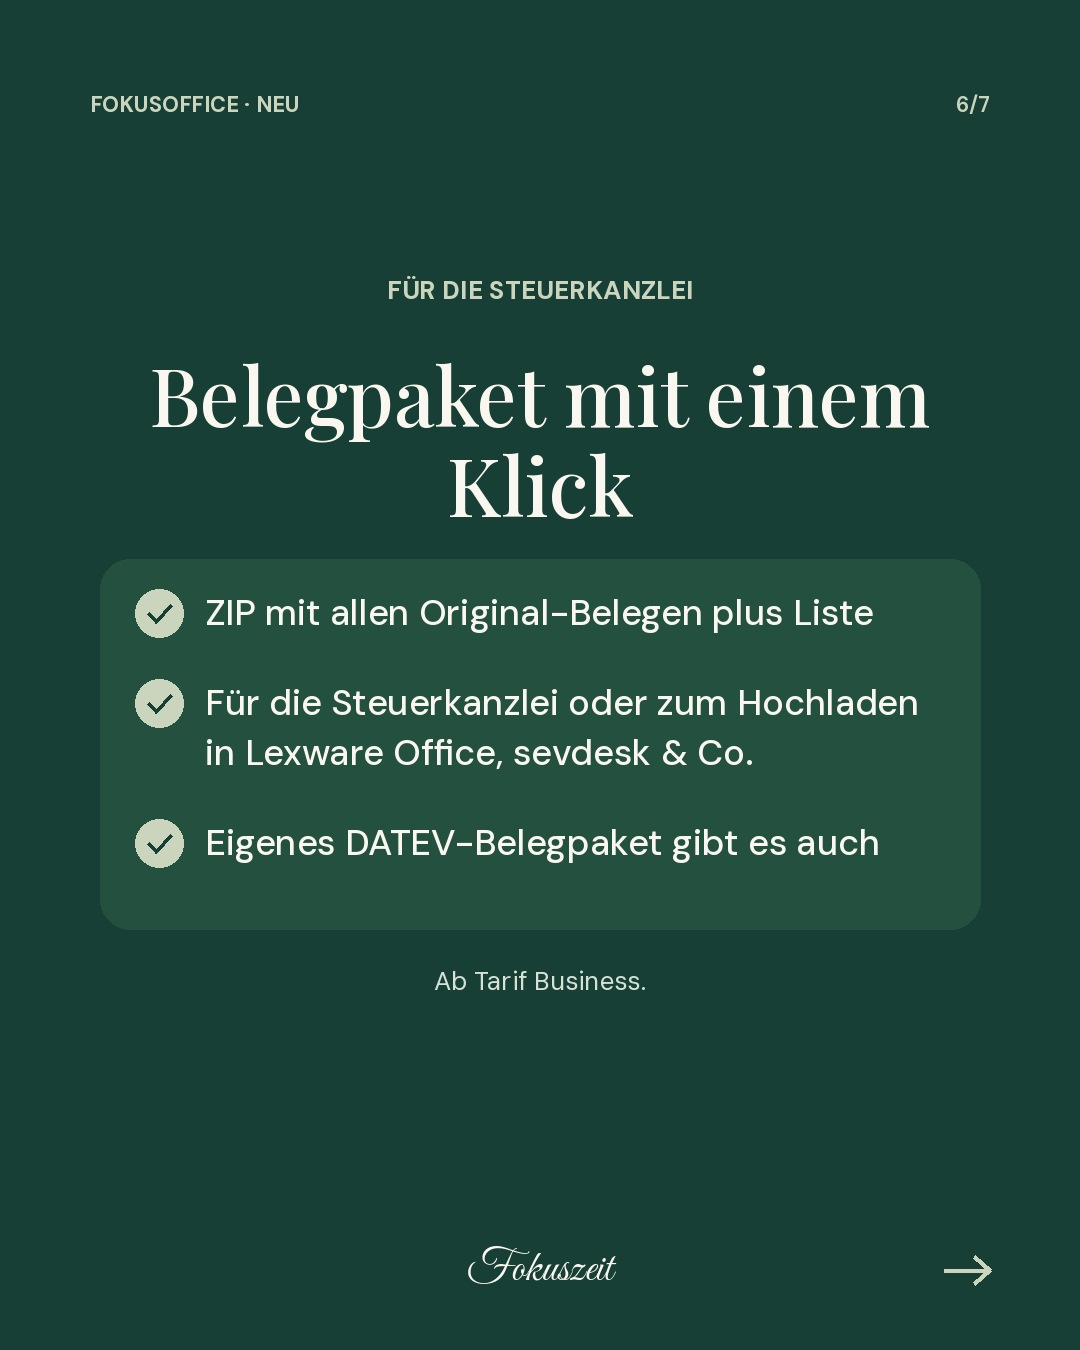
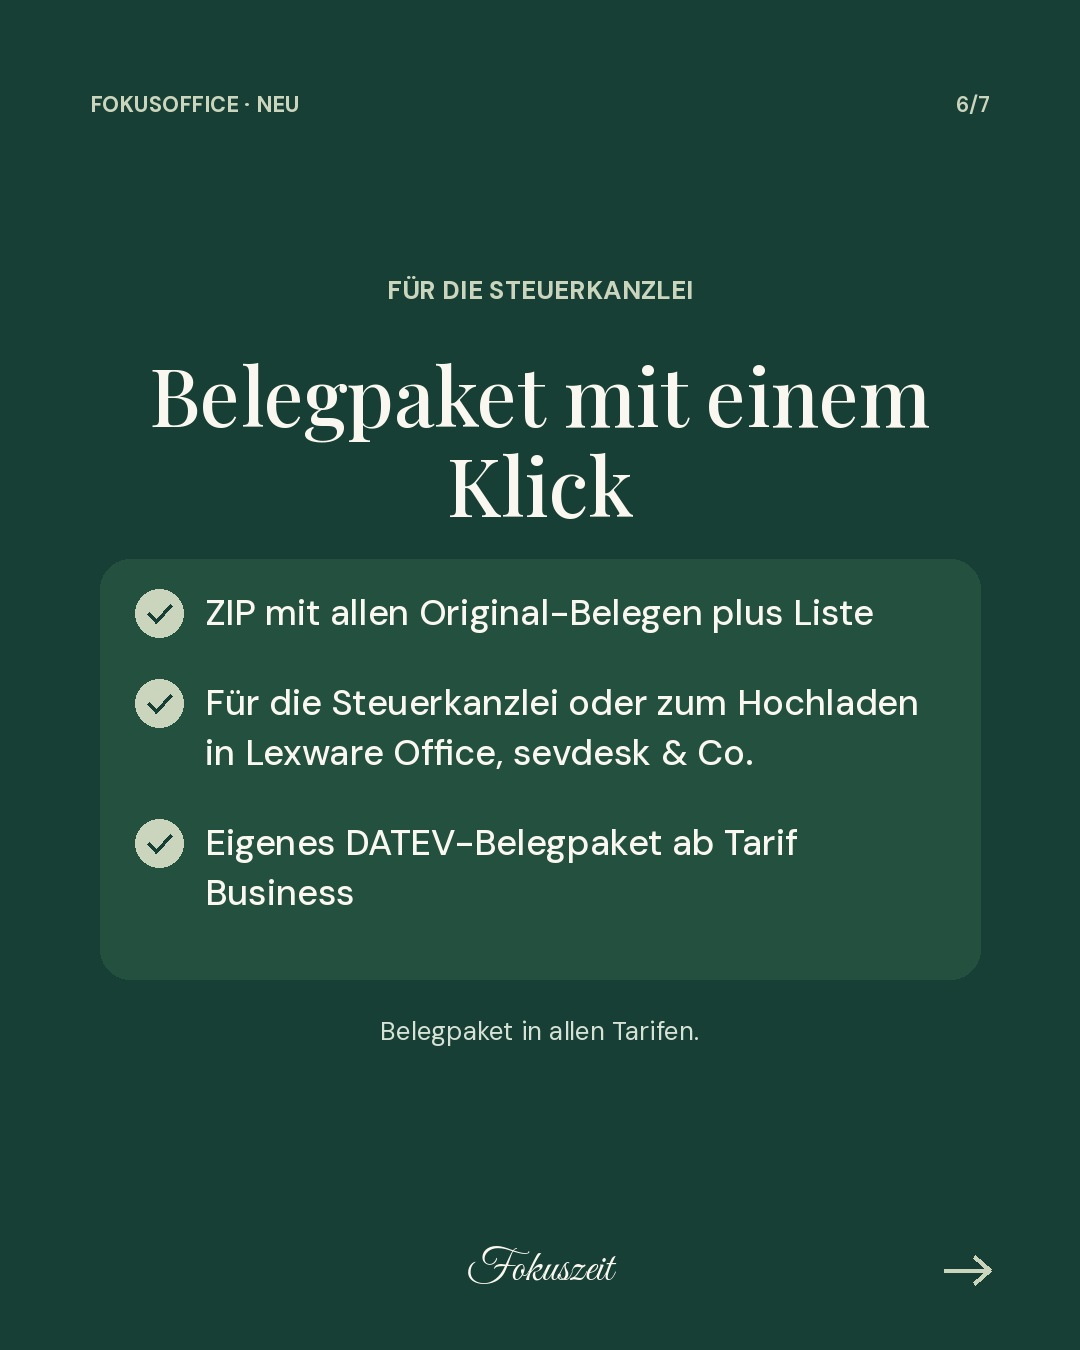
Belegpaket: in allen Tarifen (Korrektur), DATEV-Belegpaket ab Business
Claude-Session: https://claude.ai/code/session_01NA1kJx4sZCFfTM8CresH3w

Changed region(s): [[0.3361, 0.7156, 0.6417, 0.7778], [0.6111, 0.5911, 0.7944, 0.6533], [0.1833, 0.6533, 0.3361, 0.6844]]

diff --git a/wissen/fokusoffice_neuerungen.md b/wissen/fokusoffice_neuerungen.md
@@ -179,7 +179,7 @@ Die öffentliche Demo auf der Website wurde entfernt → nicht mehr erwähnen od
 - Preise, Tarife, Testphase (14 Tage, ohne Zahlungsdaten), Anmeldeformular unverändert. In der Testphase ist alles freigeschaltet.
 - Benutzerhandbuch mit Bildern, öffentlich ohne Anmeldung: https://office.fokuszeit-business.de/handbuch.php (16 Kapitel, Handy-Bilder, erfundene Demo-Firma). In der App über das Fragezeichen. Auf fokusoffice.html verlinkt.
 - Zwei-Faktor-Anmeldung, alle Tarife, freiwillig: oben „Sicherheit“ → Zwei-Faktor-Anmeldung „Einrichten“. Mit Authenticator-App (iPhone „Passwörter“, Google oder Microsoft Authenticator) und 10 Notfallcodes. Passkey gab es schon.
-- Belegpaket (ZIP + Liste), ab Business: Belege → „Erfasste Ausgaben“ → „Belegpaket (ZIP + Liste)“. Original-Belege plus CSV-Liste für die Steuerkanzlei oder zur Übernahme in Lexware Office, sevdesk, Addison, Agenda. Das „DATEV-Belegpaket“ ist ein eigener Punkt, auch ab Business.
+- Belegpaket (ZIP + Liste), ALLE Tarife (Korrektur 15.11. abends): Belege → „Erfasste Ausgaben“ → „Belegpaket (ZIP + Liste)“. Original-Belege plus CSV-Liste für die Steuerkanzlei oder zur Übernahme in Lexware Office, sevdesk, Addison, Agenda. Das „DATEV-Belegpaket“ ist ein eigener Punkt, ab Business. „Gemischt (19 % und 7 %)“ auch im Bearbeitungsfenster, alle Tarife.
 - Teilzahlungen, alle Tarife: Ausgaben → „⋯ Mehr“ → „Teilzahlung erfassen“. Im Bankabgleich (ab Business, Finanzen → Bankkonto → „Zuordnen“) wird ein kleinerer Betrag automatisch als Teilzahlung erfasst.
 - Gemischte Umsatzsteuer, alle Tarife: „Ausgabe erfassen“ → Steuer „Gemischt (19 % und 7 %)“, beide Anteile getrennt.
 - NICHT behaupten: automatischer Bankabruf oder Bankverbindung (Import per CSV-Datei, kein Bankpasswort gespeichert); direkte Schnittstelle zu DATEV, Lexware, sevdesk usw. (es ist ein Datei-Export); „GoBD-zertifiziert“, „vom Steuerberater geprüft“, „rechtssicher“; Handbuch ersetzt Steuerberatung; Zwei-Faktor-Anmeldung sei Pflicht; echte Kundenzahlen (die Bilder zeigen eine Demo-Firma).

diff --git a/whatsapp/2026-11-15/texte.md b/whatsapp/2026-11-15/texte.md
@@ -9,7 +9,7 @@ Heute geht es vor allem um ein Thema, das mir besonders wichtig ist: *Was passie
 ✅ Benutzerhandbuch mit Bildern, ohne Anmeldung lesbar
 ✅ Zwei-Faktor-Anmeldung, freiwillig, in allen Tarifen
 ✅ Mehrere Belege auf einmal hochladen, automatische Monatsmappen (ab Business)
-✅ Belegpaket für die Steuerkanzlei (ab Business)
+✅ Belegpaket für die Steuerkanzlei, in allen Tarifen
 ✅ Teilzahlungen und gemischte Umsatzsteuer 19 % und 7 % auf einem Beleg
 ✅ Frischeres Aussehen und eine aufgeräumte Startseite, siehe Video
 
@@ -37,9 +37,9 @@ Es gibt jede Nacht eine automatische Datensicherung. Du kannst jederzeit alles k
 Alle Details stehen auf meiner Website: https://www.fokuszeit-business.de/fokusoffice-sicherheit.html
 
 8) [V_belege_hochladen.mp4 + V_belegpaket.mp4]
-*Belege sammeln und ans Steuerbüro geben* (ab Tarif Business):
-Im ersten Video lädst du mehrere Belege auf einmal hoch, FokusOffice erkennt Lieferant, Datum und Betrag und legt sie in die Monatsmappe.
-Im zweiten Video siehst du das neue *Belegpaket*: Zeitraum wählen, „Paket erstellen“, und du hast eine ZIP mit allen Original-Belegen plus Liste. Die schickst du an deine Steuerkanzlei oder lädst sie in Lexware Office, sevdesk & Co. hoch. Für DATEV gibt es ein eigenes Belegpaket.
+*Belege sammeln und ans Steuerbüro geben:*
+Im ersten Video lädst du mehrere Belege auf einmal hoch (ab Tarif Business), FokusOffice erkennt Lieferant, Datum und Betrag und legt sie in die Monatsmappe.
+Im zweiten Video siehst du das neue *Belegpaket*, das gibt es in allen Tarifen: Zeitraum wählen, „Paket erstellen“, und du hast eine ZIP mit allen Original-Belegen plus Liste. Die schickst du an deine Steuerkanzlei oder lädst sie in Lexware Office, sevdesk & Co. hoch. Für DATEV gibt es ein eigenes Belegpaket (ab Tarif Business).
 
 9) [kein Bild]
 *Erst mal reinschauen, ohne Anmeldung?* 📖
